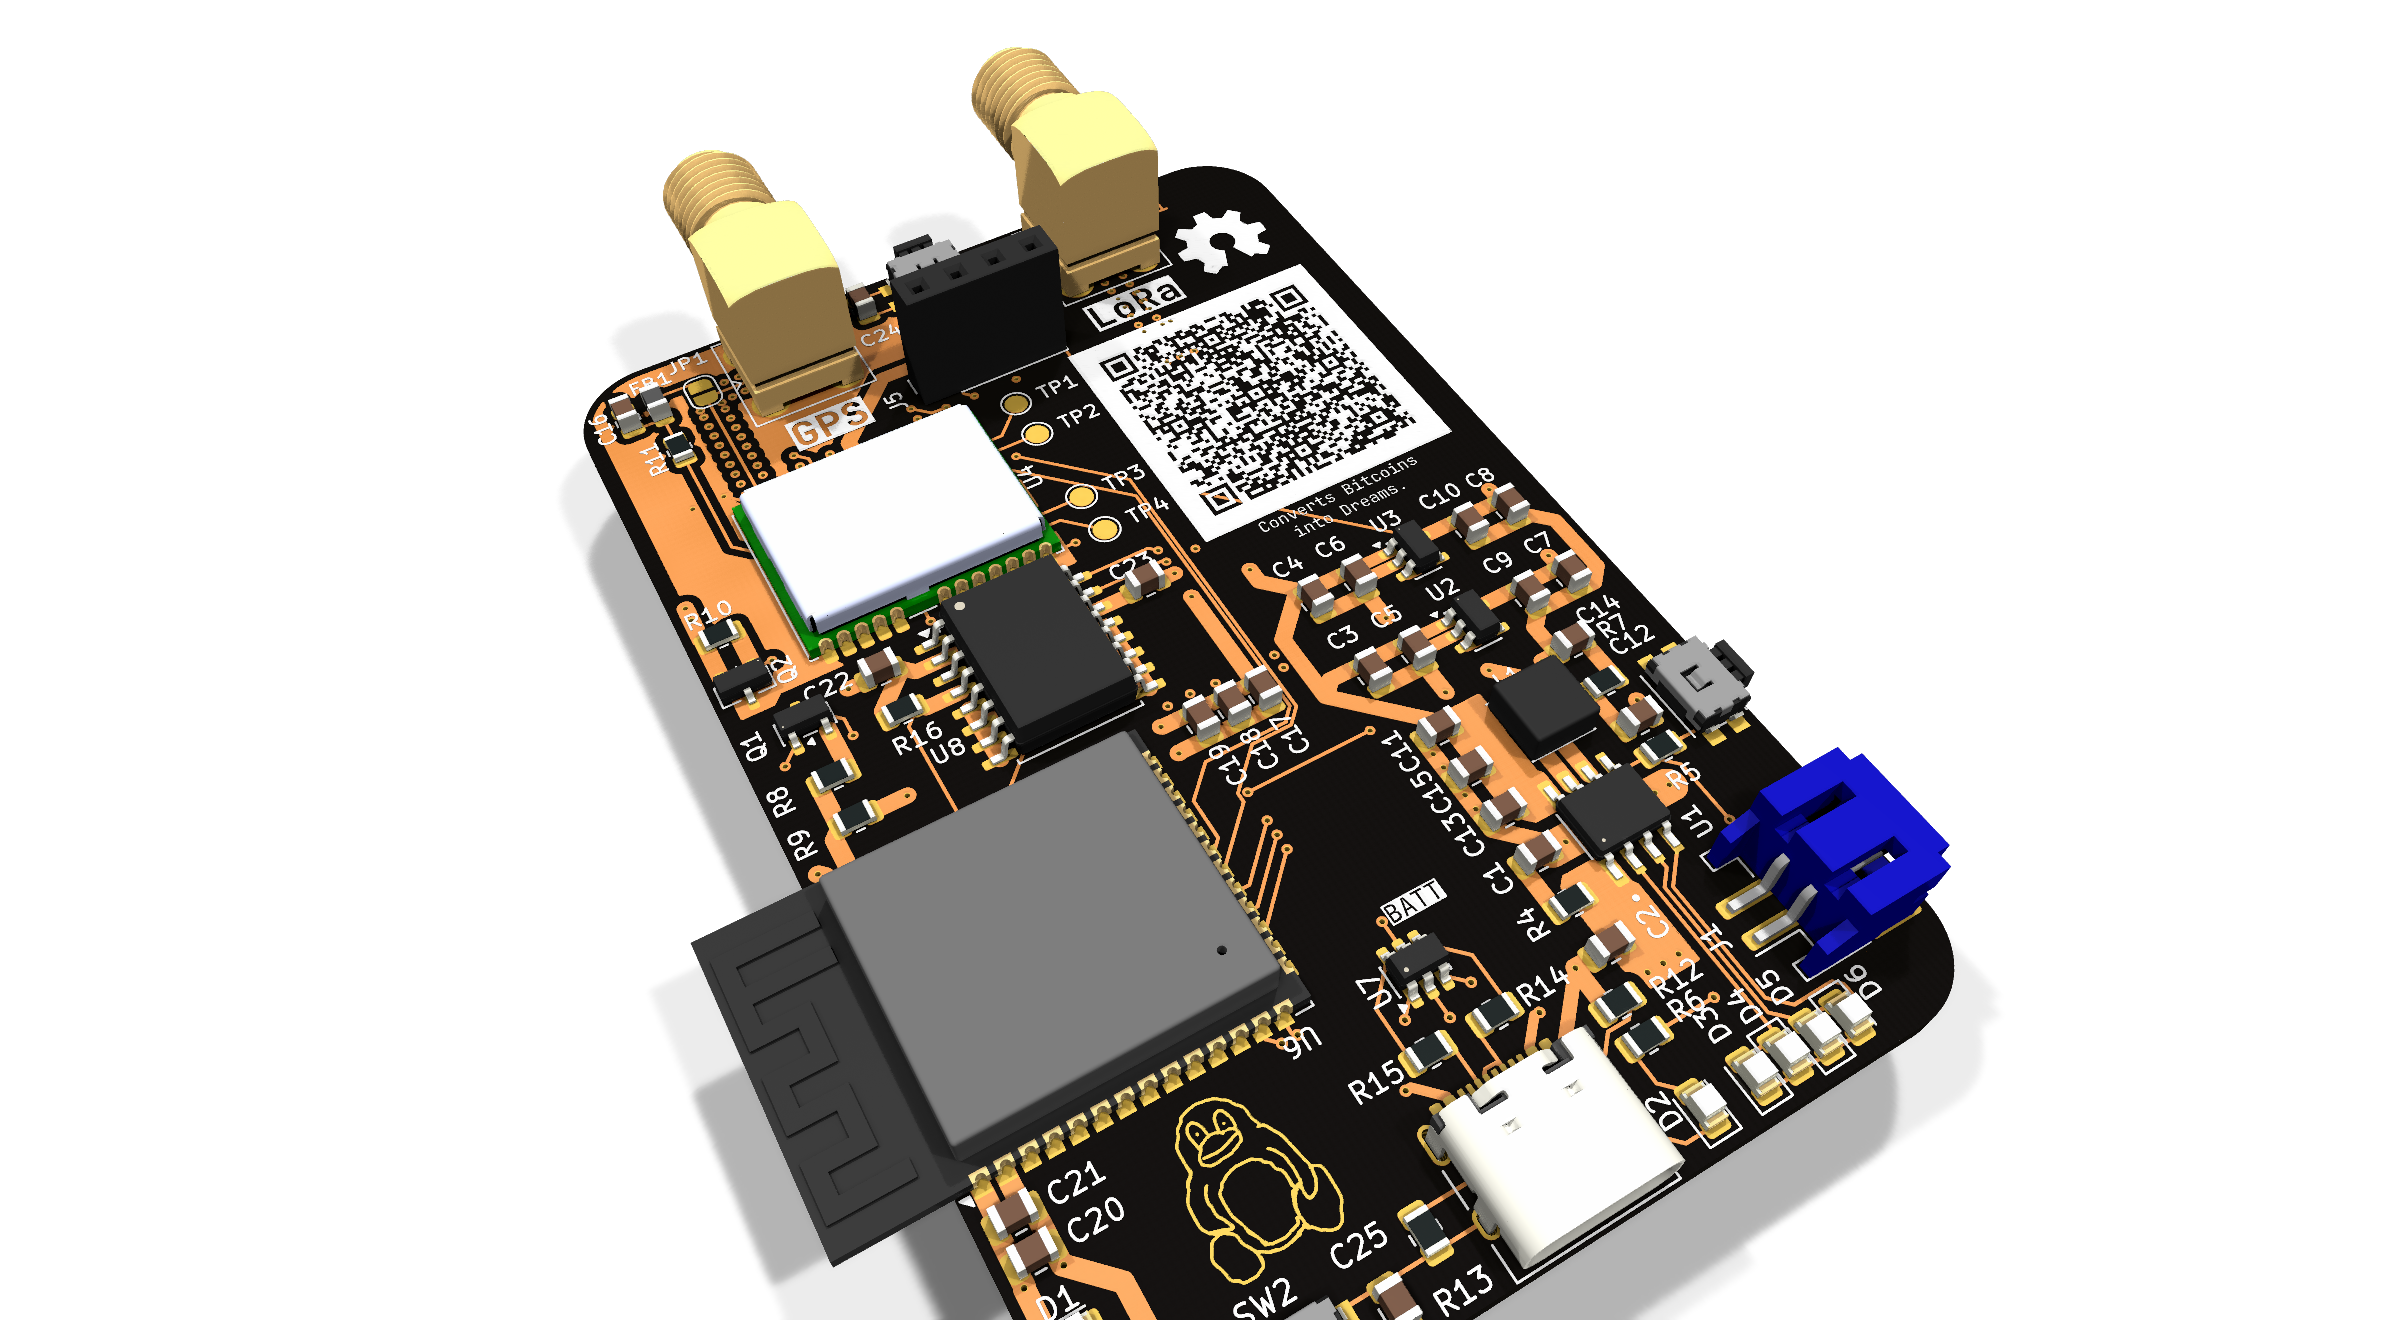
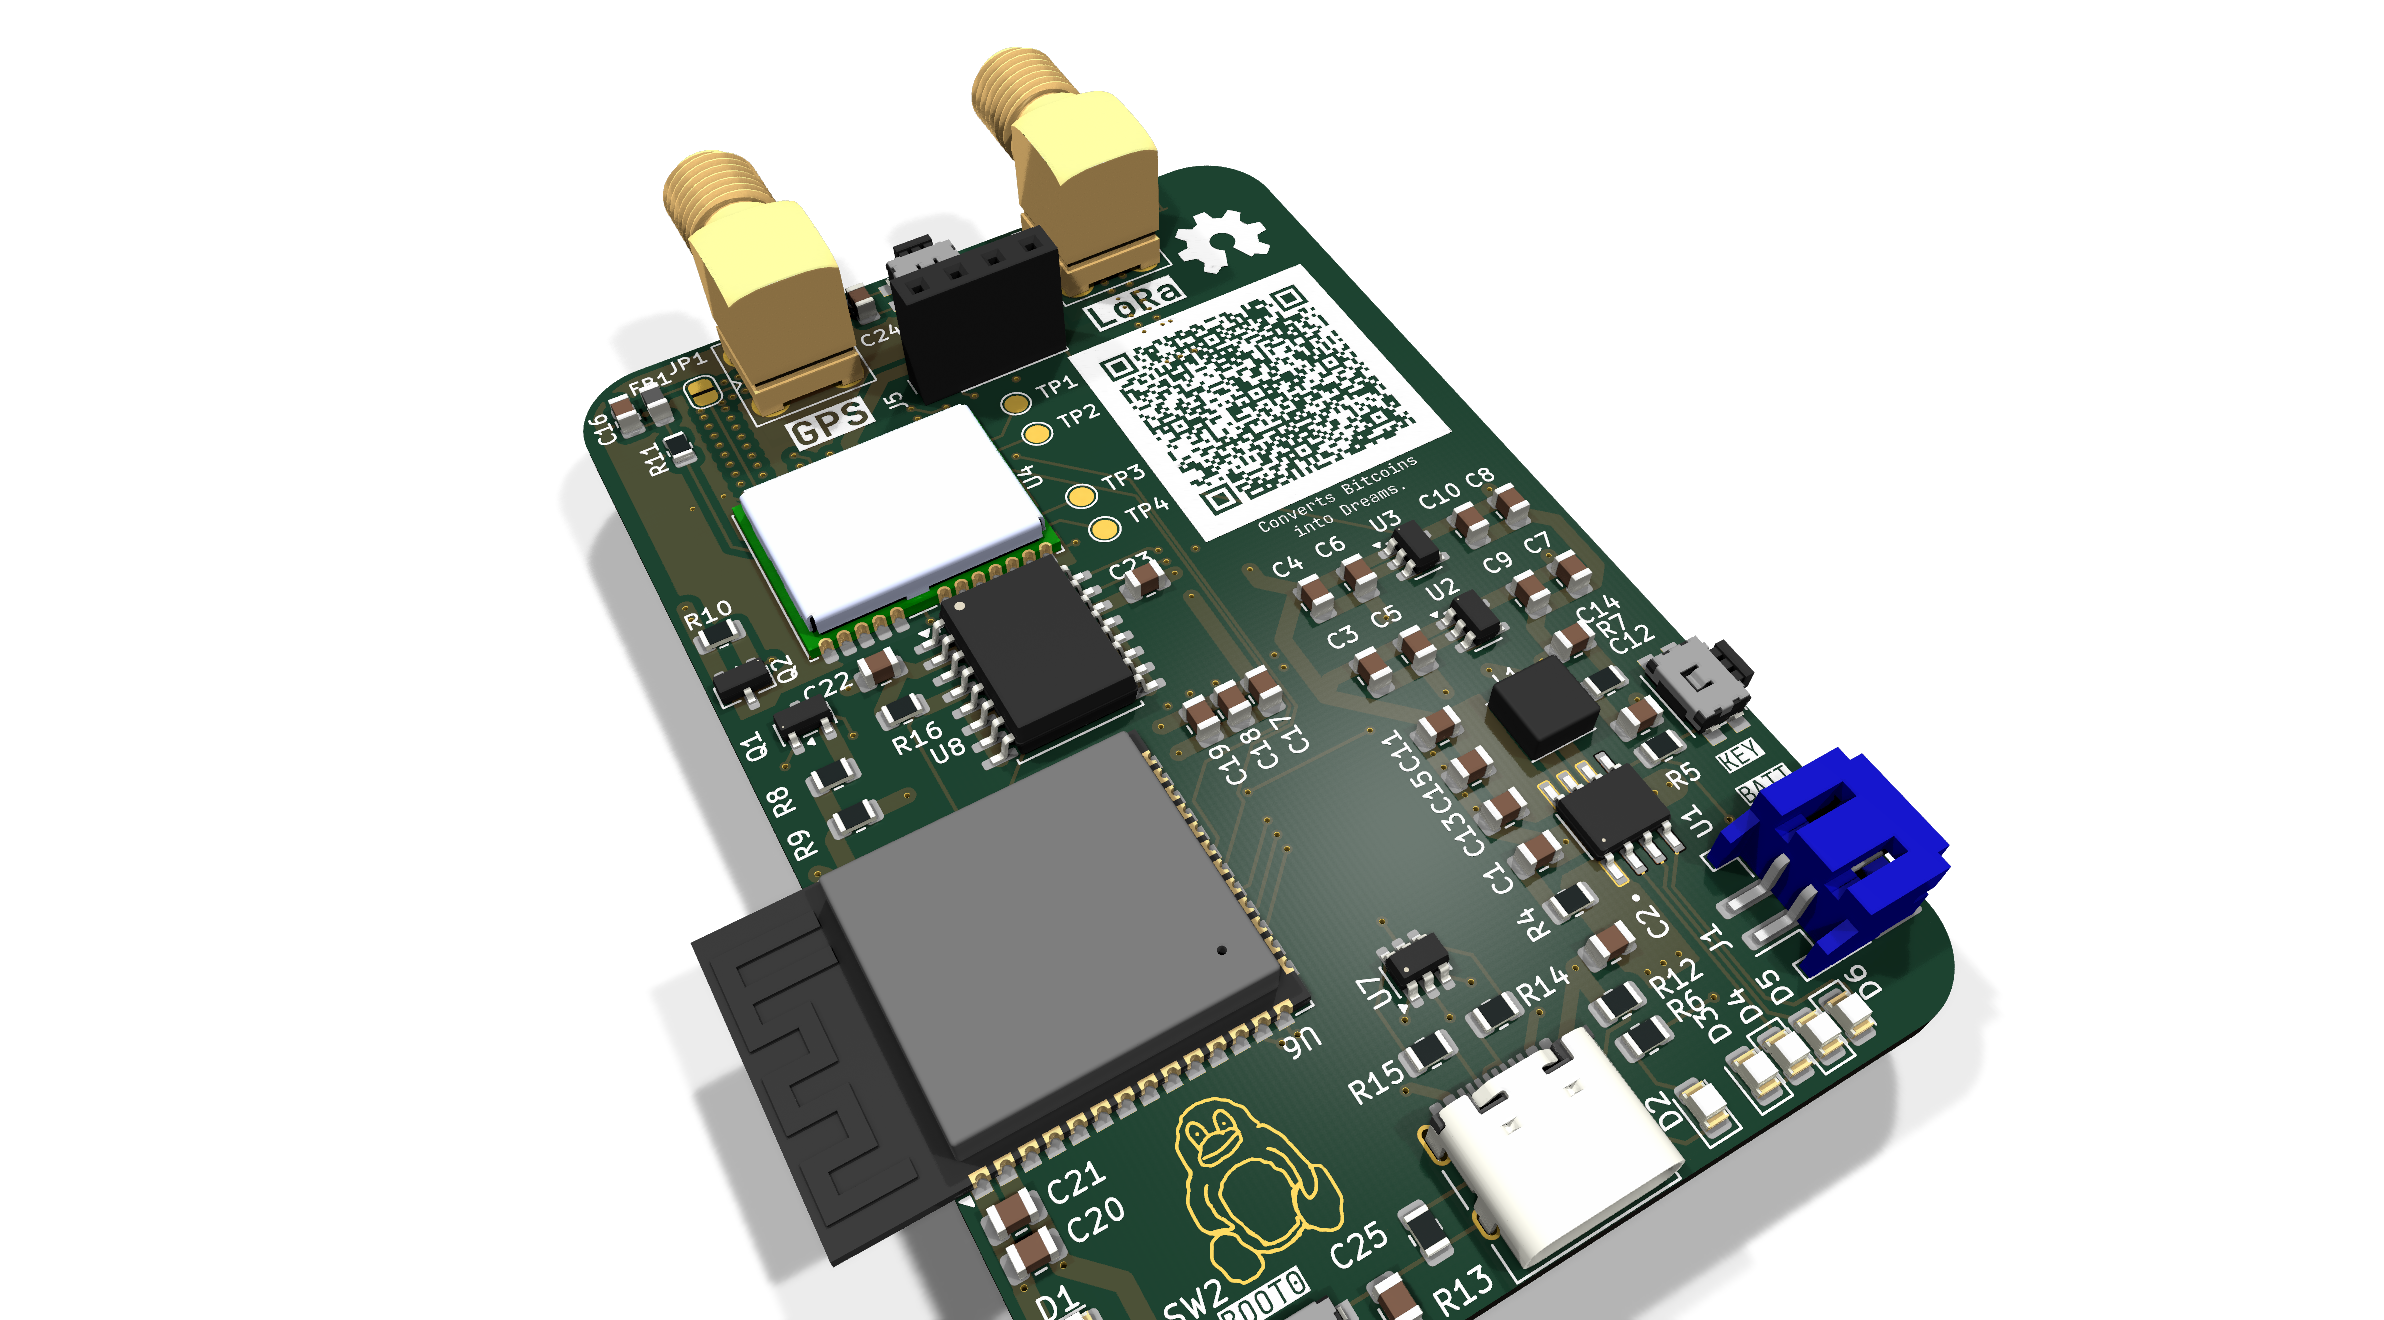
update images

Changed region(s): [[0.2483, 0.1242, 0.8381, 1.0]]

diff --git a/README.md b/README.md
@@ -1,5 +1,7 @@
 # Mesh-Hand
 
+![image](images/V2/renders/top.png)
+
 ## Description
 A Handheld Meshtastic Node with GPS on board. The device is designed to be compact and portable, making it ideal for outdoor activities such as hiking, camping, and other adventures.
 
@@ -53,22 +55,35 @@ Full BOM in kicad/production/bom.csv
 
 ## Images
 
-Blender Render
-![Purple](blender/Purple.png)
+PCB Render (top)
+![Top](images/V2/renders/top.png)
 
-Schematic & PCB View
-![Schematic](images/Schematic.png)
-![Schematic1](images/Schematic1.png)
-![Schematic2](images/Schematic2.png)
-![PCB](images/PCB.png)
+PCB Render (bottom)
+![Bottom](images/V2/renders/bottom.png)
 
+PCB Render (isometric)
+![Iso](images/V2/renders/iso.png)
+![Iso high](images/V2/renders/iso-high.png)
 
-Cart
-![Cart1](images/2026-02-28-181232_hyprshot.png)
-![Cart2](images/2026-02-28-181307_hyprshot.png)
-![Cart3](images/2026-02-28-181325_hyprshot.png)
-![Cart4](images/2026-02-28-181344_hyprshot.png)
-![Cart5](images/2026-02-28-181910_hyprshot.png)
-![Cart6](images/2026-02-28-181924_hyprshot.png)
+Schematic
+![Root](images/V2/schematics/01-root.png)
+![GPS](images/V2/schematics/02-gps.png)
+![Radio](images/V2/schematics/03-radio.png)
+![RTC](images/V2/schematics/04-rtc.png)
+![OLED](images/V2/schematics/05-oled.png)
+![Power](images/V2/schematics/06-power.png)
+![ESP32](images/V2/schematics/07-esp32.png)
 
-+
+Editor
+![Editor](images/V2/pcb/editor.png)
+
+Blender Render (V1)
+![Purple](blender/V1/Purple.png)
+
+Cart (V1)
+![Cart1](images/V1/2026-02-28-181232_hyprshot.png)
+![Cart2](images/V1/2026-02-28-181307_hyprshot.png)
+![Cart3](images/V1/2026-02-28-181325_hyprshot.png)
+![Cart4](images/V1/2026-02-28-181344_hyprshot.png)
+![Cart5](images/V1/2026-02-28-181910_hyprshot.png)
+![Cart6](images/V1/2026-02-28-181924_hyprshot.png)
